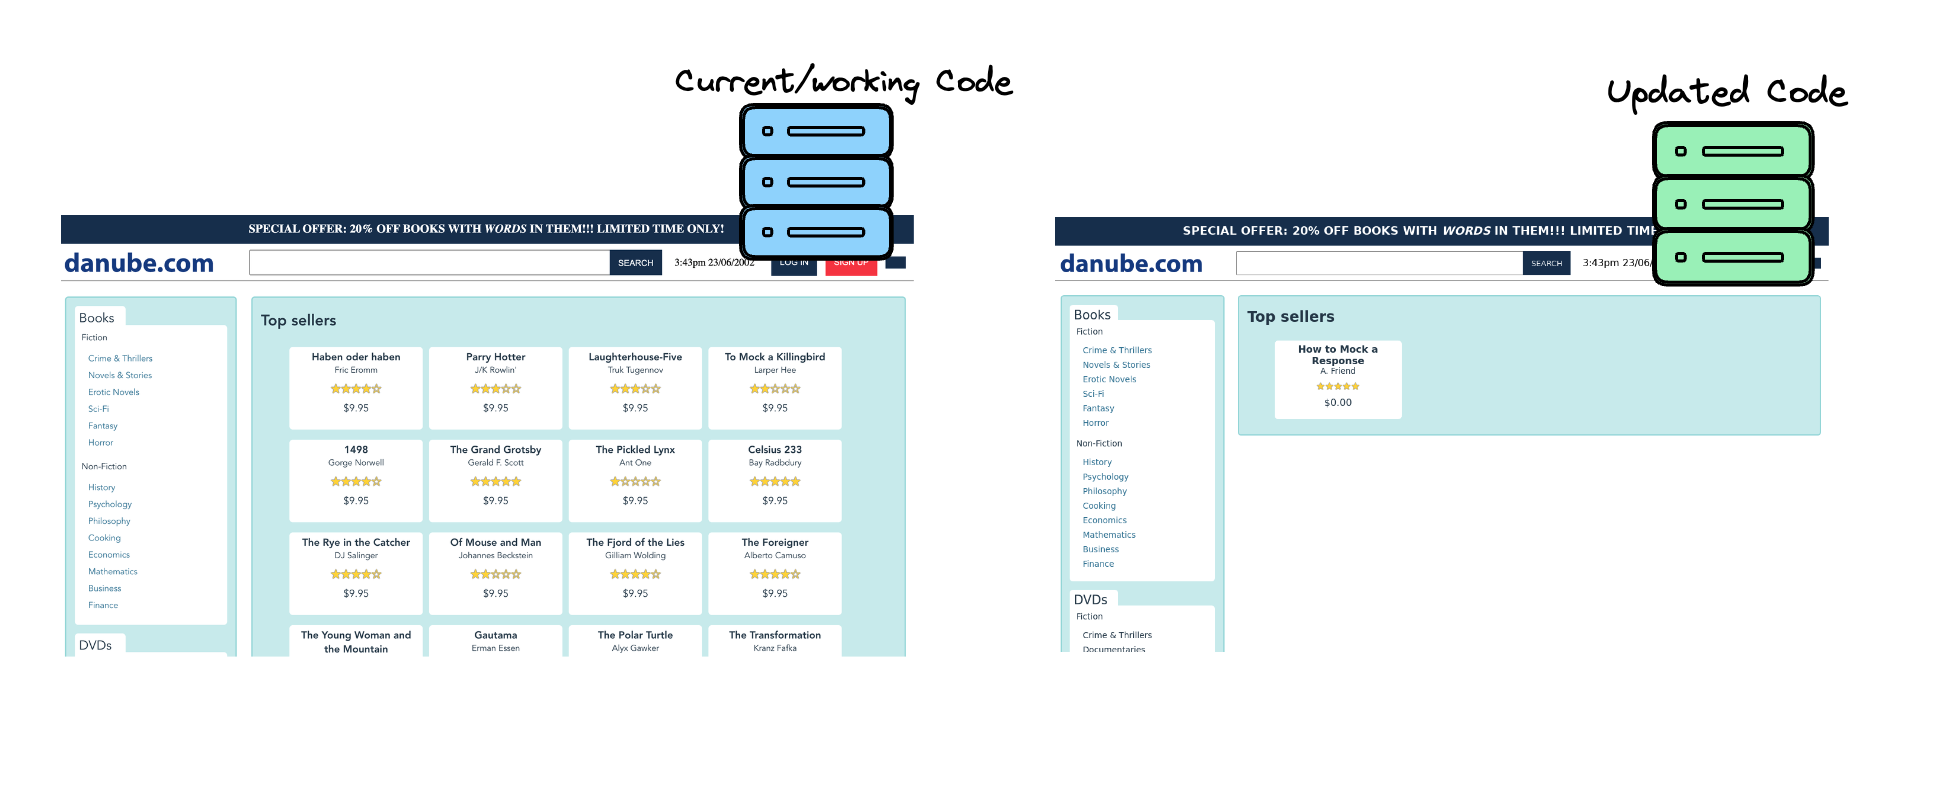
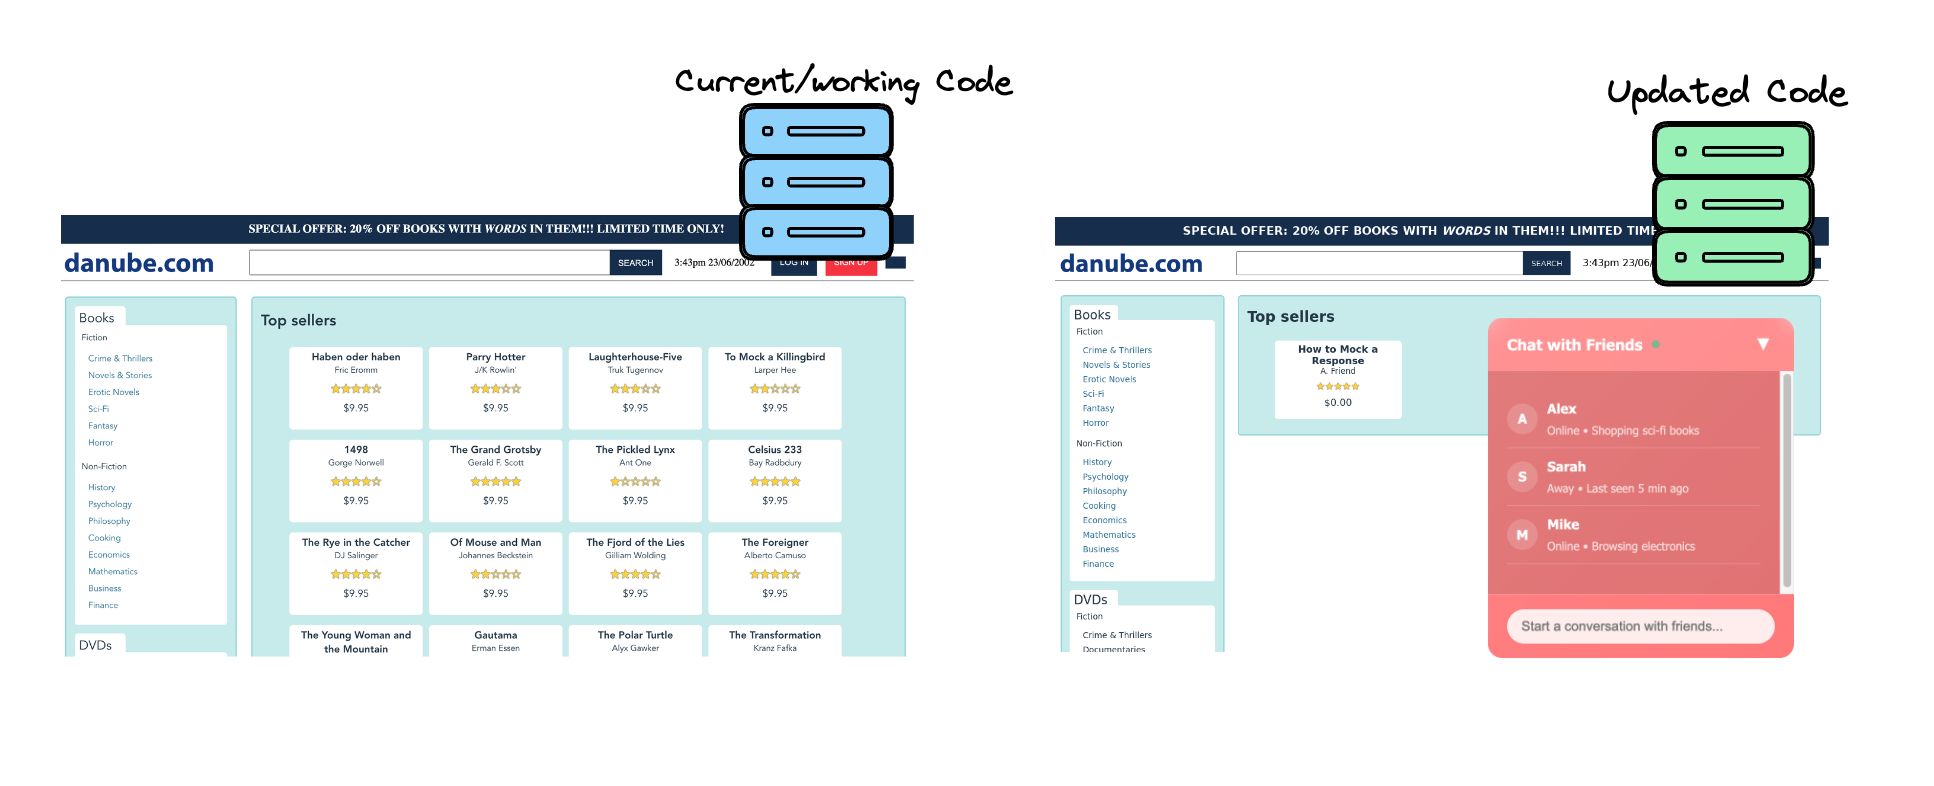
update images

Changed region(s): [[0.7446, 0.3969, 0.9307, 0.855]]

diff --git a/site/content/guides/canary-deploys.md b/site/content/guides/canary-deploys.md
@@ -23,7 +23,7 @@ Once the canary version of the service is shown to be working well, all users ca
 The essential problem we're trying to solve with this guide is **how do you know that your canary deployment is working?** Often the tools available to operations teams are quite limited, and amount to little more than a smoke test. Since canary servers are tagged at the infrastructure level, operations can see the infrastructure health of canary servers, but not their actual performance for users. Let's look at an example:
 
 ![a comparison of two storefronts](/guides/images/canary-deploy-bad-deployment.png)
-*During a deployment, someone accidentally left mock API code in place: our storefront loads but what it loads isn't accurate.* 
+*During a deployment, our feature flag loads our new chat feature, but the API also isn't returning full data, so our book catalog looks incomplete.* 
 
 Looking at simple infrastructure metrics won't reveal this problem.
 
